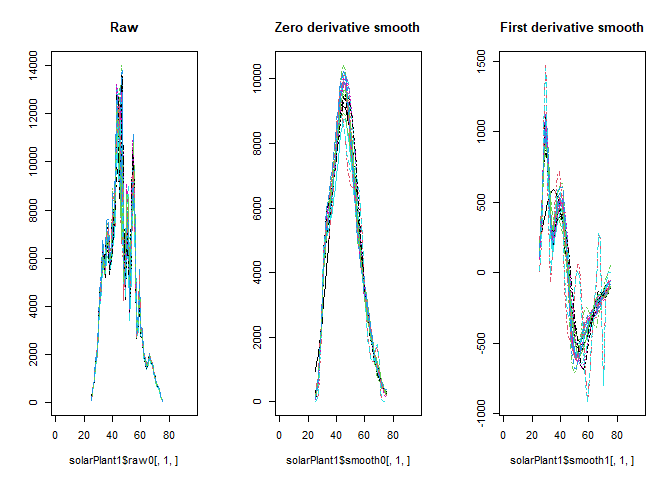
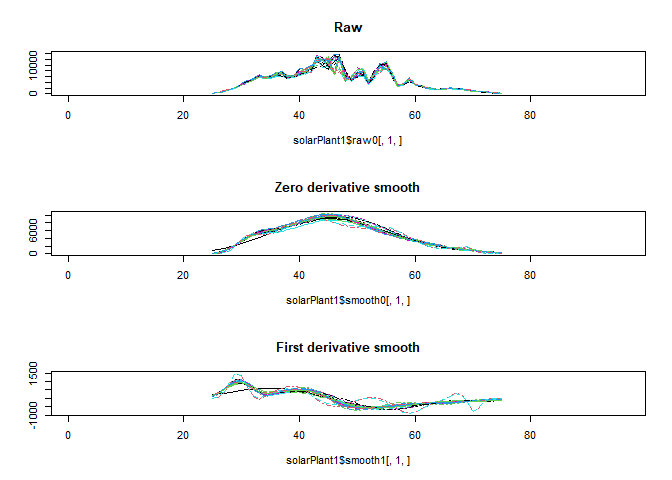
figures by row

diff --git a/README.md b/README.md
@@ -24,7 +24,7 @@ Load the example data and plot it.
 ``` r
 data("solarPlant1")
 
-par(mfrow = c(1,3))
+par(mfrow = c(3,1))
 
 matplot(solarPlant1$raw0[,1,], type = "l", main = "Raw")
 matplot(solarPlant1$smooth0[,1,], type = "l", main = "Zero derivative smooth")
